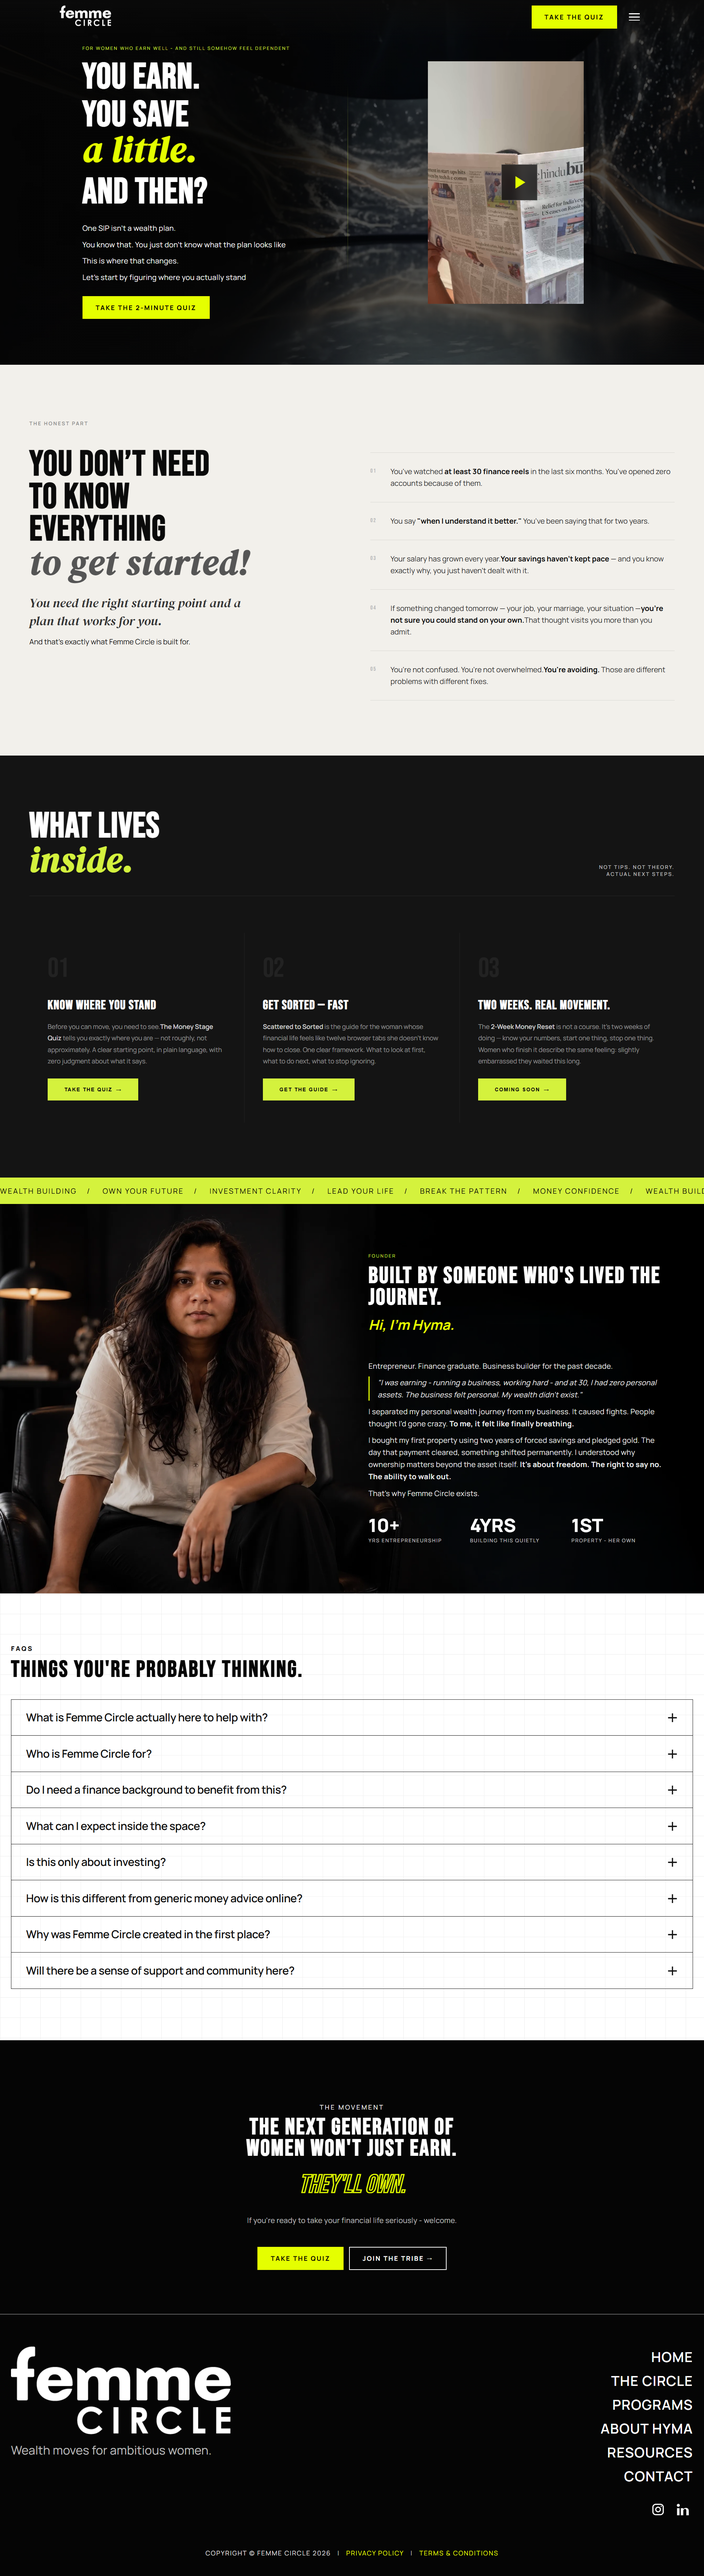
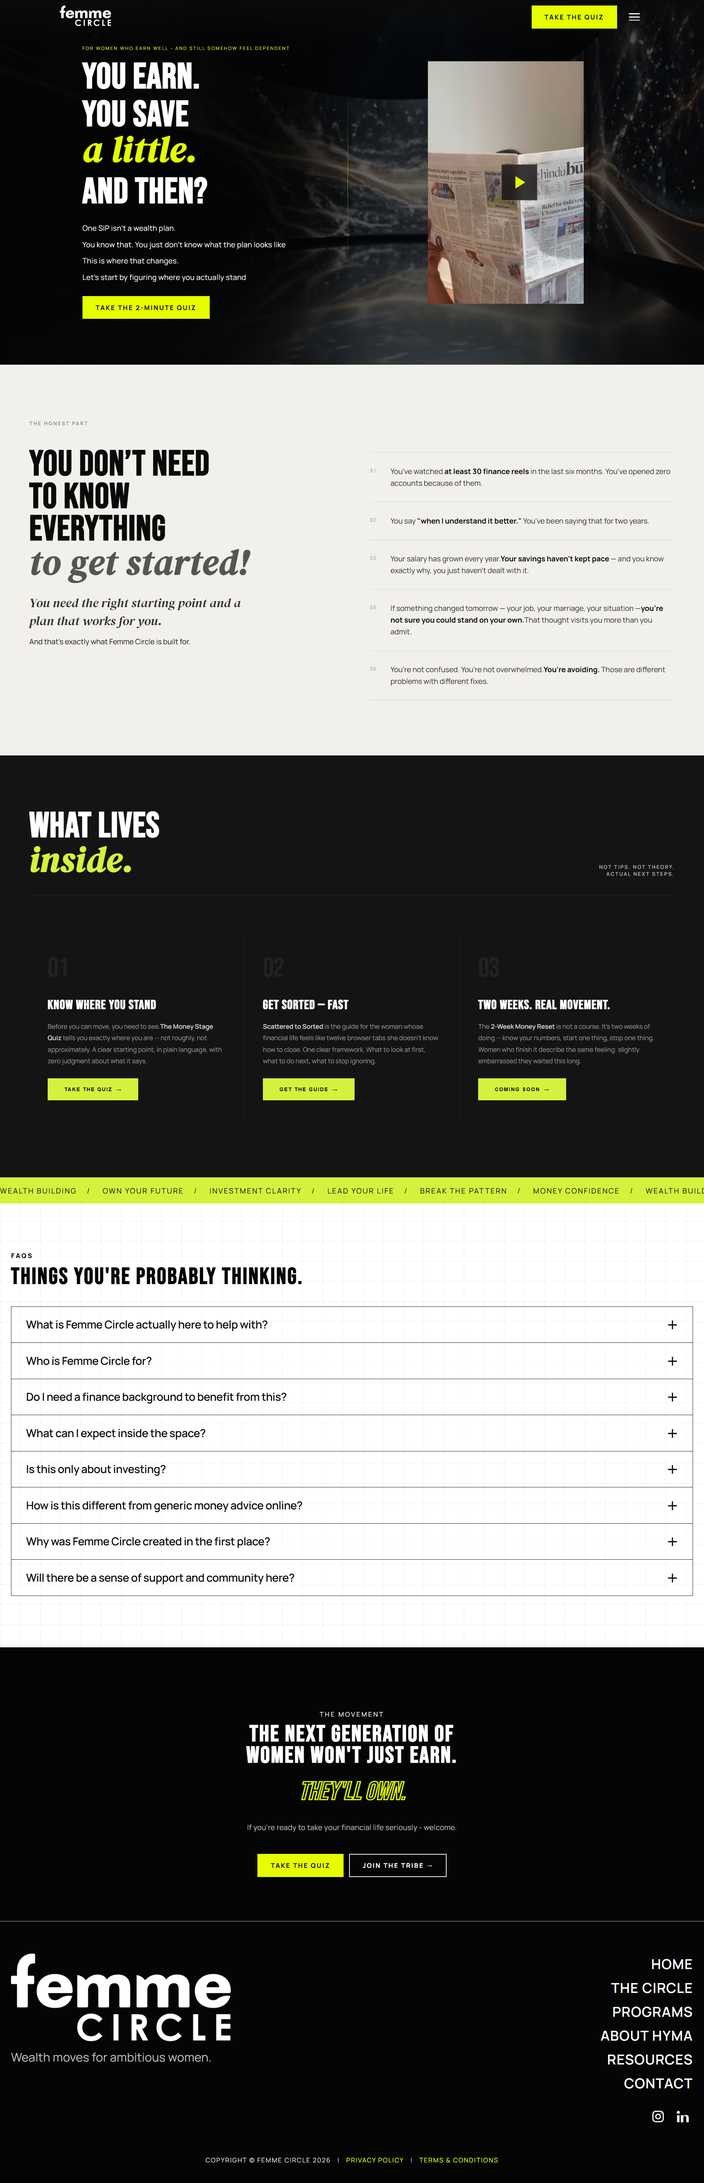
fix: replace femme circle lady image with modern platform hero preview

diff --git a/src/components/MarqueeSection.js b/src/components/MarqueeSection.js
@@ -10,7 +10,7 @@ const row1Projects = [
   {
     title: 'Femme Circle Platform',
     category: 'Full-Stack Wellness MERN',
-    src: '/ImagesWebsite/femmecircle.png',
+    src: '/project-previews/femme-preview.png',
   },
   {
     title: 'ClapKartel Casting Network',
@@ -109,7 +109,7 @@ const row2Projects = [
   {
     title: 'Femme Circle Wellness App',
     category: 'Interactive 3D Health',
-    src: '/project-previews/femme-hero.webp',
+    src: '/project-previews/femme-preview.png',
   },
   {
     title: 'ClapKartel Auditions UI',
@@ -175,7 +175,7 @@ export default function MarqueeSection() {
                 src={item.src}
                 alt={item.title}
                 loading="lazy"
-                className="w-full h-full object-cover transition-transform duration-700 group-hover:scale-105"
+                className="w-full h-full object-cover object-top transition-transform duration-700 group-hover:scale-105"
               />
               <div className="absolute inset-0 bg-gradient-to-t from-black/85 via-black/20 to-transparent opacity-80 group-hover:opacity-95 transition-opacity flex flex-col justify-end p-4 sm:p-5">
                 <span className="text-[10px] sm:text-xs font-mono text-purple-300 uppercase tracking-wider font-semibold">
@@ -206,7 +206,7 @@ export default function MarqueeSection() {
                 src={item.src}
                 alt={item.title}
                 loading="lazy"
-                className="w-full h-full object-cover transition-transform duration-700 group-hover:scale-105"
+                className="w-full h-full object-cover object-top transition-transform duration-700 group-hover:scale-105"
               />
               <div className="absolute inset-0 bg-gradient-to-t from-black/85 via-black/20 to-transparent opacity-80 group-hover:opacity-95 transition-opacity flex flex-col justify-end p-4 sm:p-5">
                 <span className="text-[10px] sm:text-xs font-mono text-blue-300 uppercase tracking-wider font-semibold">
